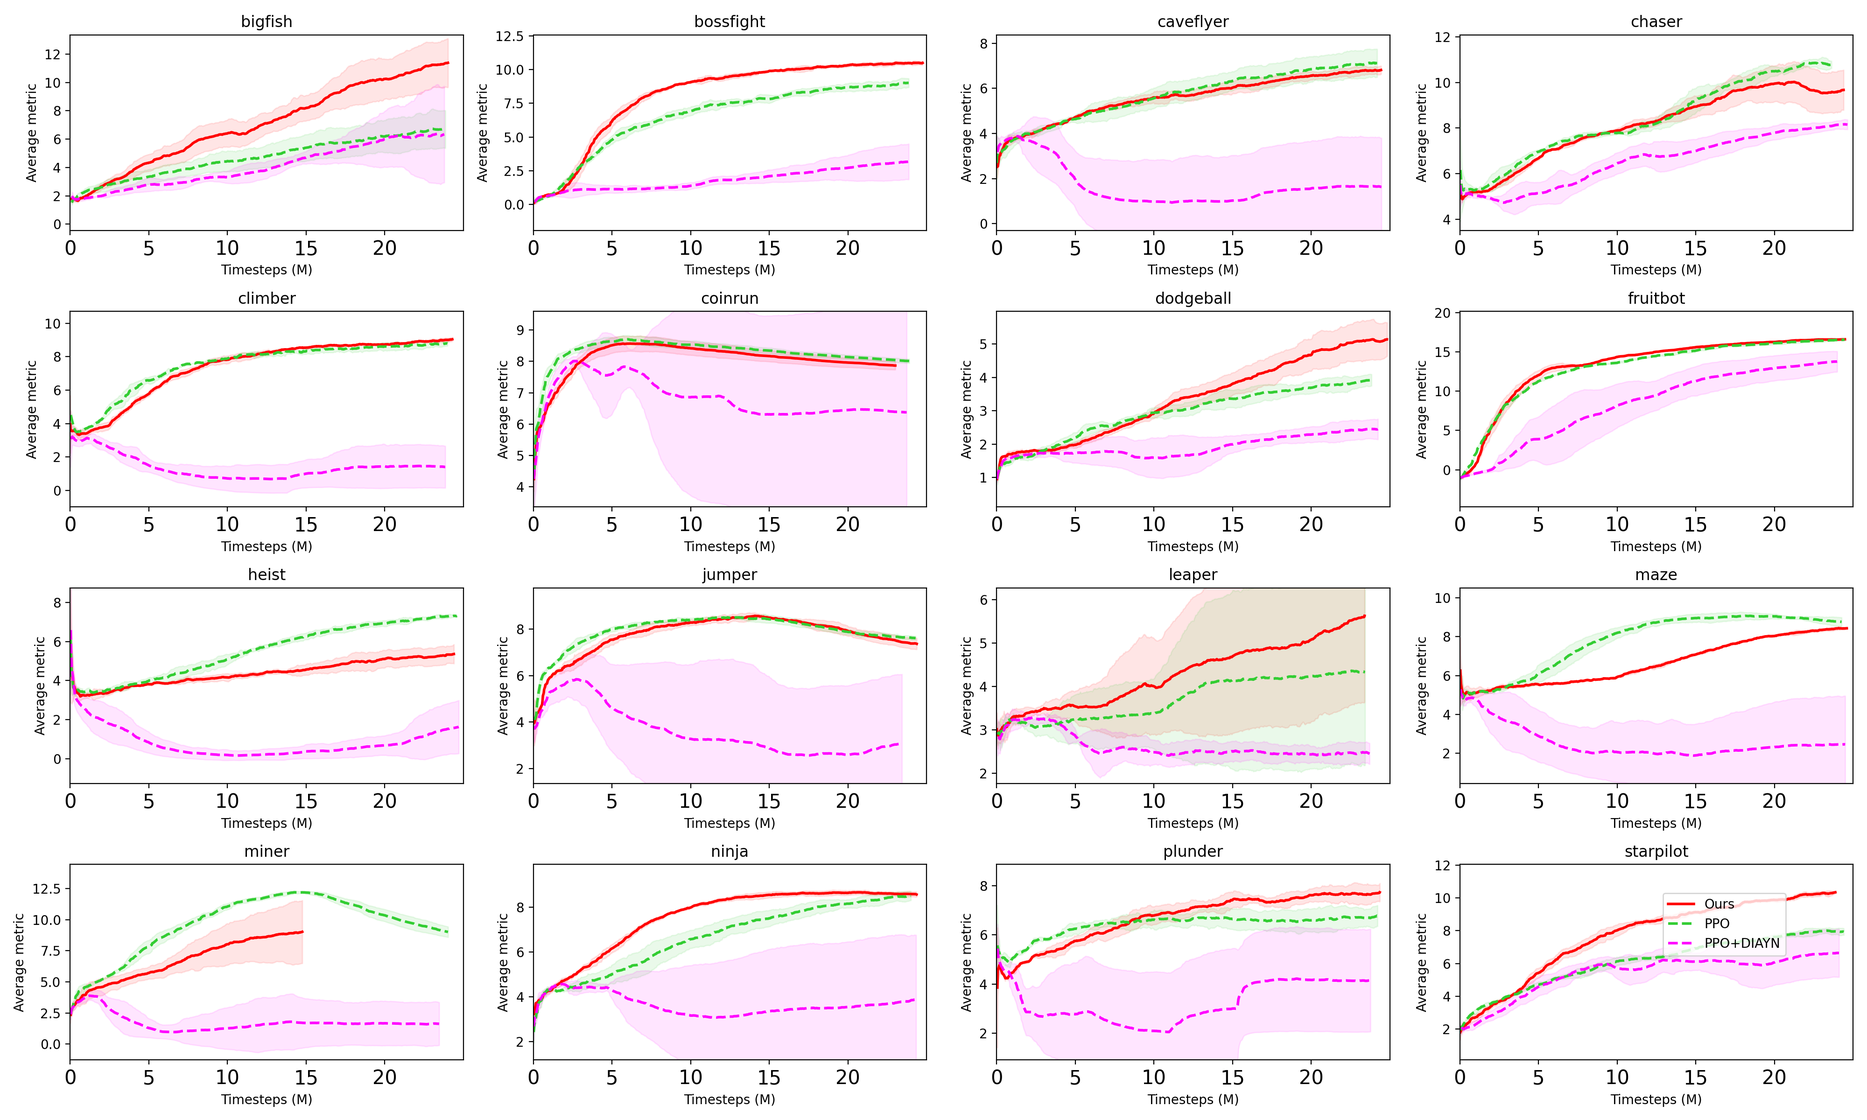
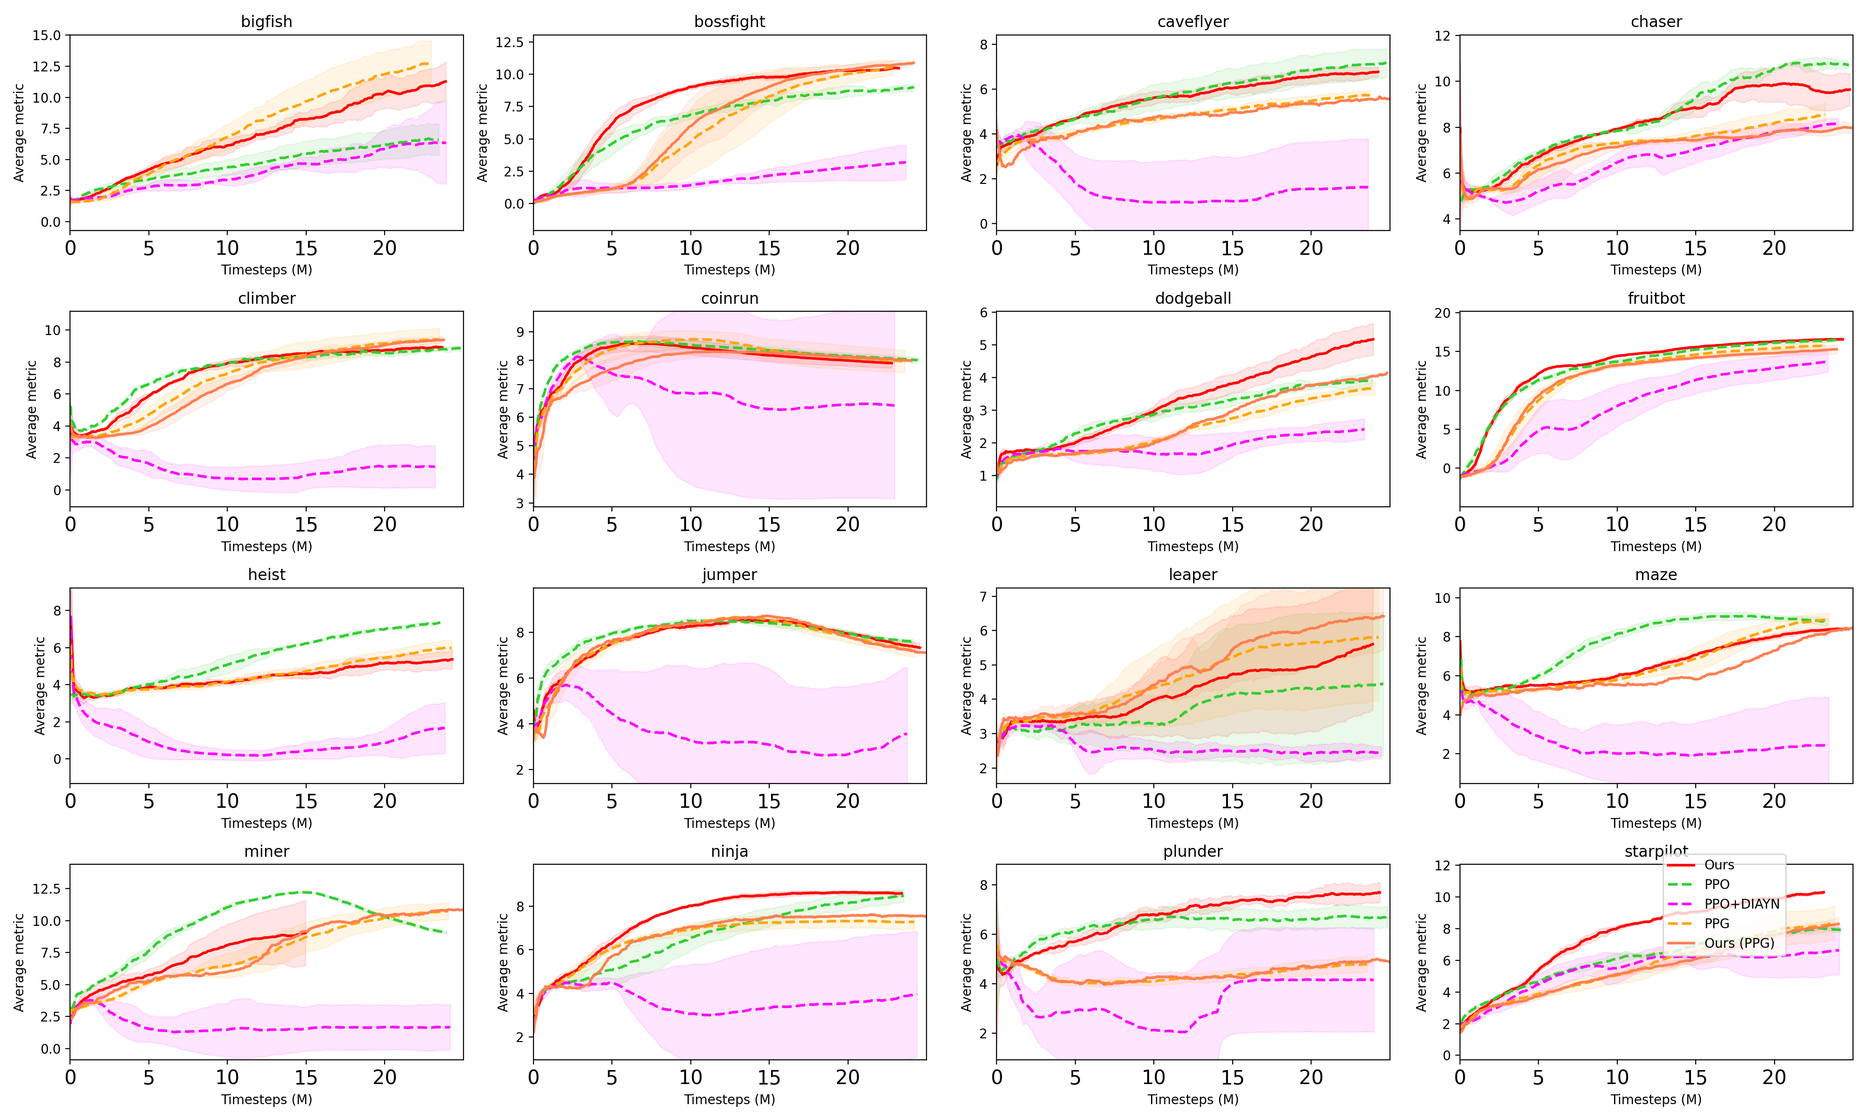
CCP working it seems

diff --git a/coinrun/coinrun/policies.py b/coinrun/coinrun/policies.py
@@ -204,7 +204,9 @@ class CnnPolicy(object):
             REP_PROC = tf.compat.v1.placeholder(dtype=tf.float32, shape=(None, Config.NUM_ENVS, 64, 64, 3), name='Rep_Proc')
             Z_INT = tf.compat.v1.placeholder(dtype=tf.int32, shape=(), name='Curr_Skill_idx')
             Z = tf.compat.v1.placeholder(dtype=tf.float32, shape=(nbatch, Config.N_SKILLS), name='Curr_skill')
-            self.protos = tf.compat.v1.Variable(initial_value=tf.random.normal(shape=(128, Config.N_SKILLS)), trainable=True, name='Prototypes')
+            CLUSTER_DIMS = 256
+            HIDDEN_DIMS_SSL = 256
+            self.protos = tf.compat.v1.Variable(initial_value=tf.random.normal(shape=(CLUSTER_DIMS, Config.N_SKILLS)), trainable=True, name='Prototypes')
             self.A = self.pdtype.sample_placeholder([None],name='A')
             # trajectories of length m, for N policy heads.
             self.STATE = tf.compat.v1.placeholder(tf.float32, [None,64,64,3])
@@ -214,16 +216,17 @@ class CnnPolicy(object):
             self.LAB_NCE = tf.compat.v1.placeholder(tf.float32, [Config.POLICY_NHEADS,None])
             self.A_i = self.pdtype.sample_placeholder([None,Config.REP_LOSS_M,1],name='A_i')
             self.R_cluster = tf.compat.v1.placeholder(tf.float32, [None, Config.NUM_ENVS])
-            self.A_cluster = self.pdtype.sample_placeholder([None, Config.NUM_ENVS])
+            self.A_cluster = self.pdtype.sample_placeholder([None, Config.NUM_ENVS], name='A_cluster')
             
         if Config.AGENT == 'ppo_goal':
+            X = tf.reshape(REP_PROC, [-1, 64, 64, 3])
             with tf.compat.v1.variable_scope("online", reuse=tf.compat.v1.AUTO_REUSE):
-                act_condit, act_invariant, slow_dropout_assign_ops, fast_dropout_assigned_ops = choose_cnn(processed_x)
+                act_condit, act_invariant, slow_dropout_assign_ops, fast_dropout_assigned_ops = choose_cnn(X)
                 self.train_dropout_assign_ops = fast_dropout_assigned_ops
                 self.run_dropout_assign_ops = slow_dropout_assign_ops
                 self.h =  tf.concat([act_condit, act_invariant], axis=1)
             with tf.compat.v1.variable_scope("target", reuse=tf.compat.v1.AUTO_REUSE):
-                act_condit, act_invariant, slow_dropout_assign_ops, fast_dropout_assigned_ops = choose_cnn(processed_x)
+                act_condit, act_invariant, slow_dropout_assign_ops, fast_dropout_assigned_ops = choose_cnn(X)
                 self.train_dropout_assign_ops = fast_dropout_assigned_ops
                 self.run_dropout_assign_ops = slow_dropout_assign_ops
                 self.h =  tf.concat([act_condit, act_invariant], axis=1)
@@ -345,13 +348,15 @@ class CnnPolicy(object):
                 self.h_codes =  tf.transpose(tf.reshape(tf.concat([act_condit, act_invariant], axis=1),[-1,Config.NUM_ENVS,256]),(1,0,2))
                 h_t = self.h_codes[:,:-1]
                 h_tp1 = self.h_codes[:,1:]
-                act_one_hot = tf.reshape(tf.one_hot(self.A_cluster,ac_space.n), (-1,ac_space.n))
+                
                 # h_a_t = tf.transpose(tf.reshape(get_predictor(n_in=ac_space.n,n_out=256,prefix="SH_a_emb")( act_one_hot), (-1,Config.NUM_ENVS,256)), (1,0,2))
                 h_seq = tf.reshape( tf.concat([h_t,h_tp1],2), (-1,256*2))
-                h_seq = tf.squeeze(tf.squeeze(FiLM(widths=[512,512], name='FiLM_layer')([tf.expand_dims(tf.expand_dims(h_seq,1),1), act_one_hot]),1),1)
-                self.z_t = get_online_predictor(n_in=256*2,n_out=128,prefix='SH_z_pred')(h_seq)
+                if not Config.CLUSTER_CONDIT_POLICY:
+                    act_one_hot = tf.reshape(tf.one_hot(self.A_cluster,ac_space.n), (-1,ac_space.n))
+                    h_seq = tf.squeeze(tf.squeeze(FiLM(widths=[512,512], name='FiLM_layer')([tf.expand_dims(tf.expand_dims(h_seq,1),1), act_one_hot]),1),1)
+                self.z_t = get_online_predictor(n_in=256*2,n_out=CLUSTER_DIMS,prefix='SH_z_pred')(h_seq)
                 
-                self.u_t = get_predictor(n_in=128,n_out=128,prefix='SH_u_pred')(self.z_t)
+                self.u_t = get_predictor(n_in=CLUSTER_DIMS,n_out=CLUSTER_DIMS,prefix='SH_u_pred')(self.z_t)
                 
             self.z_t_1 = self.z_t
             # scores: n_batch x n_clusters
@@ -374,32 +379,44 @@ class CnnPolicy(object):
                     self.cluster_returns = tf.stack(reward_scale)
                     # Predict the average cluster value from the prototype (centroid)
                     with tf.compat.v1.variable_scope("online", reuse=tf.compat.v1.AUTO_REUSE):
-                        self.cluster_value_mse_loss = tf.reduce_mean( (get_predictor(n_in=128,n_out=1)(tf.transpose(self.protos)) - self.cluster_returns)**2 )
+                        self.cluster_value_mse_loss = tf.reduce_mean( (get_predictor(n_in=CLUSTER_DIMS,n_out=1)(tf.transpose(self.protos)) - self.cluster_returns)**2 )
                 else:
                     self.cluster_value_mse_loss = 0.
 
                 """
                 MYOW where k-NN neighbors are replaced by Sinkhorn clusters
                 """
+                with tf.compat.v1.variable_scope("target", reuse=tf.compat.v1.AUTO_REUSE):
+                    # h_codes: n_batch x n_t x n_rkhs
+                    act_condit_target, act_invariant_target, _, _ = choose_cnn(obs_cluster)
+                    h_codes_target =  tf.transpose(tf.reshape(tf.concat([act_condit_target, act_invariant_target], axis=1),[-1,Config.NUM_ENVS,256]),(1,0,2))
+                    h_t_target = h_codes_target[:,:-1]
+                    h_tp1_target = h_codes_target[:,1:]
+                    
+                    # h_a_t = tf.transpose(tf.reshape(get_predictor(n_in=ac_space.n,n_out=256,prefix="SH_a_emb")( act_one_hot), (-1,Config.NUM_ENVS,256)), (1,0,2))
+                    h_seq_target = tf.reshape( tf.concat([h_t_target,h_tp1_target],2), (-1,256*2))
+                    if not Config.CLUSTER_CONDIT_POLICY:
+                        act_one_hot_target = tf.reshape(tf.one_hot(self.A_cluster,ac_space.n), (-1,ac_space.n))
+                        h_seq_target = tf.squeeze(tf.squeeze(FiLM(widths=[512,512], name='FiLM_layer')([tf.expand_dims(tf.expand_dims(h_seq_target,1),1), act_one_hot_target]),1),1)
                 y_online = h_seq
-                y_target = tf.stop_gradient(h_seq)
+                y_target = tf.stop_gradient(h_seq_target)
                 
 
                 # get K closest vectors by Sinkhorn scores
-                dist = _compute_distance(scores,scores)
+                dist = _compute_distance(y_online,y_online)
                 # dist = _compute_distance(y_online,y_online)
-                k_t = 1
+                k_t = 3
                 vals, indx = tf.nn.top_k(-dist, k_t+1,sorted=True)
                 
                 # N_target = y_target
                 with tf.compat.v1.variable_scope("online", reuse=tf.compat.v1.AUTO_REUSE):
-                    v_online_net = get_predictor(n_in=256*2,n_out=256,prefix='MYOW_v_pred')
-                    r_online_net = get_predictor(n_out=256,prefix='MYOW_r_pred')
+                    v_online_net = get_predictor(n_in=256*2,n_out=HIDDEN_DIMS_SSL,prefix='MYOW_v_pred')
+                    r_online_net = get_predictor(n_in=HIDDEN_DIMS_SSL,n_out=HIDDEN_DIMS_SSL,prefix='MYOW_r_pred')
                     v_online = v_online_net(y_online)
                     r_online = r_online_net(v_online)
                 with tf.compat.v1.variable_scope("target", reuse=tf.compat.v1.AUTO_REUSE):
-                    v_target_net = get_predictor(n_in=256*2,n_out=256,prefix='MYOW_v_pred')
-                    r_target_net = get_predictor(n_out=256,prefix='MYOW_r_pred')
+                    v_target_net = get_predictor(n_in=256*2,n_out=HIDDEN_DIMS_SSL,prefix='MYOW_v_pred')
+                    r_target_net = get_predictor(n_in=HIDDEN_DIMS_SSL,n_out=HIDDEN_DIMS_SSL,prefix='MYOW_r_pred')
 
                 self.myow_loss = 0.
                 for k in range(k_t):
@@ -411,7 +428,7 @@ class CnnPolicy(object):
                     self.myow_loss += ( tf.reduce_mean(cos_loss(r_online, v_target)) + tf.reduce_mean(cos_loss(r_target, v_online)) ) / k_t
 
                 with tf.compat.v1.variable_scope("online", reuse=tf.compat.v1.AUTO_REUSE):
-                    phi_s = get_online_predictor(n_in=256,n_out=128,prefix='SH_z_pred')(tf.reshape(h_tp1,(-1,256)))
+                    phi_s = get_online_predictor(n_in=256,n_out=CLUSTER_DIMS,prefix='SH_z_pred')(tf.reshape(h_tp1,(-1,256)))
                     self.myow_loss += tf.reduce_mean(cos_loss(phi_s, tf.transpose(tf.gather(self.protos,cluster_idx,axis=1),(1,0)) ))
 
                 self.myow_loss += self.cluster_value_mse_loss
@@ -423,6 +440,16 @@ class CnnPolicy(object):
                 self.R_I_SCALE = tf.nn.relu(get_linear_layer(n_in=256,n_out=1,prefix='r_i_scale',init=initializers.RandomNormal(stddev=0.11))(tf.reshape(tf.stop_gradient(h_tp1),(-1,256))))
 
                 # self.h = get_predictor(n_in=256+Config.N_SKILLS,n_out=256)(tf.concat([self.h,tf.stop_gradient(scores)],1))
+
+            """
+            Condition on soft-cluster assignments for policy head (Cluster Conditioned Policy )
+            """
+            if Config.CLUSTER_CONDIT_POLICY:
+                concat_code = tf.stop_gradient(tf.reshape(self.codes, [-1, Config.N_SKILLS]))
+                # print(self.h)
+                # print(concat_code)
+                #self.h = tf.concat([self.h, concat_code], axis=1)
+                #h_seq = tf.squeeze(tf.squeeze(FiLM(widths=[512,512], name='FiLM_layer')([tf.expand_dims(tf.expand_dims(h_seq,1),1), act_one_hot]),1),1)
                 
         if Config.AGENT == 'ppg':
             with tf.compat.v1.variable_scope("pi_branch", reuse=tf.compat.v1.AUTO_REUSE):
@@ -501,7 +528,7 @@ class CnnPolicy(object):
                 a, v, v_i, neglogp, r_i  = sess.run([a0_run[0], self.vf_run[0], self.vf_i_run, neglogp0_run[0], self.skill_log_prob], {X: ob, Z_INT: skill_idx, Z: one_hot_skill})
                 return a, v, v_i, r_i, self.initial_state, neglogp
             elif Config.AGENT == 'ppo_goal':
-                a, v, v_i, neglogp = sess.run([a0_run[0], self.vf_run[0], self.vf_i_run, neglogp0_run[0]], {X: ob, Z: one_hot_skill})
+                a, v, v_i, neglogp = sess.run([a0_run[0], self.vf_run[0], self.vf_i_run, neglogp0_run[0]], {REP_PROC: ob, Z: one_hot_skill})
                 return a, v, v_i, self.initial_state, neglogp
             elif Config.AGENT == 'ppo' and not Config.CUSTOM_REP_LOSS:
                 head_idx = 0
@@ -528,14 +555,19 @@ class CnnPolicy(object):
             return sess.run(self.h, {X: ob})
 
         def value(ob, update_frac, one_hot_skill=None, *_args, **_kwargs):
-            if Config.AGENT == 'ppo_diayn' or Config.AGENT == 'ppo_goal':
+            if Config.AGENT == 'ppo_diayn':
                 return sess.run(self.vf_run, {X: ob, Z: one_hot_skill})
+            elif Config.AGENT == 'ppo_goal':
+                return sess.run(self.vf_run, {REP_PROC: ob, Z: one_hot_skill})
             else:
-                return sess.run(self.vf_run, {X: ob})
+                 return sess.run(self.vf_run, {self.STATE: ob, X:ob})
+
 
         def value_i(ob, update_frac, one_hot_skill=None, *_args, **_kwargs):
-            if Config.AGENT == 'ppo_diayn' or Config.AGENT == 'ppo_goal':
+            if Config.AGENT == 'ppo_diayn':
                 return sess.run(self.vf_i_run, {X: ob, Z: one_hot_skill})
+            elif Config.AGENT == 'ppo_goal':
+                return sess.run(self.vf_i_run, {REP_PROC: ob, Z: one_hot_skill})
             else:
                  return sess.run(self.vf_i_run, {self.STATE: ob, X:ob})
 

diff --git a/coinrun/coinrun/make_wandb_table.py b/coinrun/coinrun/make_wandb_table.py
@@ -8,7 +8,13 @@ from collections import defaultdict
 os.environ["WANDB_API_KEY"] = "02e3820b69de1b1fcc645edcfc3dd5c5079839a1"
 os.environ["WANDB_API_KEY"] = "02e3820b69de1b1fcc645edcfc3dd5c5079839a1"
 import wandb
+import time
 api = wandb.Api()
+
+AGENTS = ["ppo_goal","ppo","ppo_diayn","ppg",'ppg_ssl']
+CLEAN_NAMES_AGENTS = ['Ours','PPO','PPO+DIAYN','PPG','Ours (PPG)']
+
+agent2label = dict(zip(AGENTS,CLEAN_NAMES_AGENTS))
 
 def set_curve_attributes(params):
         linewidth = 2
@@ -18,19 +24,20 @@ def set_curve_attributes(params):
         label = params['agent']['value']
         if label == 'ppo_goal':
             col = 'red'
-            label = 'Ours'
         elif label == 'ppo':
             col = 'limegreen'
             linestyle = '--'
-            label = 'PPO'
         elif label == 'ppo_diayn':
             col = 'fuchsia'
             linestyle = '--'
-            label = 'PPO+DIAYN'
         elif label == 'ppg':
             col = 'orange'
             linestyle = '--'
-            label = 'DAAC'
+        elif label == 'ppg_ssl':
+            col = 'coral'
+            linestyle = '-'
+        
+        label = agent2label[label]
         
         return label, col, linestyle, linewidth, marker, do_not_plot
 
@@ -38,12 +45,16 @@ runs = api.runs("ssl_rl/procgen_generalization")
 df = []
 for i,run in enumerate(runs): 
     params = json.loads(run.json_config)
-    if params['agent']['value'] not in ("ppo_goal","ppo","ppo_diayn"):
+    if params['agent']['value'] not in AGENTS:
+        continue
+    if params['agent']['value'] == 'ppo_goal' and params['run_id']['value'] != 'ppo_split_sinkhornMYOW':
         continue
     label, col, linestyle, linewidth, marker, do_not_plot = set_curve_attributes(params)
     run_df = run.history()
     columns = run_df.columns
     run_df.columns = [x.split('/')[-1] for x in columns]
+    # if params['agent']['value'] == 'ppo_goal':
+    #     import ipdb;ipdb.set_trace()
 
     run_df['agent'] = label
     run_df['env'] = params['environment']['value']
@@ -51,9 +62,32 @@ for i,run in enumerate(runs):
     run_df['linestyle'] = linestyle
     run_df['UID'] = np.random.randint(1000000)
     df.append(run_df)
+    time.sleep(0.5)
 df=pd.concat(df)
 
 xlim = (0,25e6,5e6)
+
+table_eval = r"""
+\begin{table}[ht]
+\centering
+\caption{Average eval returns collected after 25M of training frames, $\pm$ one standard deviation.}
+\resizebox{\linewidth}{!}{%
+\begin{tabular}{l||l|ll}
+\toprule
+"""
+table_train = r"""
+\begin{table}[ht]
+\centering
+\caption{Average train returns collected after 25M of training frames, $\pm$ one standard deviation.}
+\resizebox{\linewidth}{!}{%
+\begin{tabular}{l||l|ll}
+\toprule
+"""
+table_eval += "Env & " + ' & '.join(CLEAN_NAMES_AGENTS) +'\\\\ \n'
+reported_scores_eval = np.zeros((16,len(CLEAN_NAMES_AGENTS)))
+
+table_train += "Env & " + ' & '.join(CLEAN_NAMES_AGENTS) +'\\\\ \n'
+reported_scores_train = np.zeros((16,len(CLEAN_NAMES_AGENTS)))
 
 metrics = ['eprew','eprew_eval']
 for metric in metrics:
@@ -67,7 +101,11 @@ for metric in metrics:
     
     row_idx, col_idx = 0,0
     handles_, labels_ = [], []
-    for env_name in games_list:
+    for e_idx,env_name in enumerate(games_list):
+        if metric == 'eprew_eval':
+            row_str_eval = env_name + ' '
+        if metric == 'eprew':
+            row_str_train = env_name + ' '
         # idx = ((df['env']==env_name))
         # df_game = df[idx]
 
@@ -78,9 +116,11 @@ for metric in metrics:
             col_idx = 0
             row_idx += 1
         min_y, max_y = float('inf'), float('-inf')
-        for agent in sorted(df['agent'].unique()):
+        for a_idx,agent in enumerate(CLEAN_NAMES_AGENTS):
             idx2 = ( (df['agent']==agent).to_numpy() * (df['env']==env_name).to_numpy() )
             df_agent = df[idx2]
+            if len(df_agent) == 0:
+                continue
             T = df_agent.groupby('UID').apply(len).min()
             seeds = df_agent['UID'].unique()
             n_seeds = len(seeds)
@@ -102,6 +142,20 @@ for metric in metrics:
             ax.fill_between(x, mu-sigma, mu+sigma, alpha=0.1, color=col)
             max_y = max(max_y,(mu).max())
             min_y = min(min_y,(mu).min())
+
+            # find largest reward in curve in last 10 timesteps
+            start_idx = len(mu)-10
+            best_idx = mu[start_idx:].argmax()+start_idx
+
+            if metric == 'eprew_eval':
+                row_str_eval += '& %.1f$\pm$%.1f ' % (mu[best_idx],sigma[best_idx])
+            if metric == 'eprew':
+                row_str_train += '& %.1f$\pm$%.1f ' % (mu[best_idx],sigma[best_idx])
+            # add best score to table of scores for normalized absolute score computation
+            if metric == 'eprew_eval':
+                reported_scores_eval[e_idx,a_idx] = mu[best_idx]
+            if metric == 'eprew':
+                reported_scores_train[e_idx,a_idx] = mu[best_idx]
 
         major_ticks = np.arange(xlim[0], xlim[1], xlim[2])
         #minor_ticks = np.arange(xlim[0], xlim[1], xlim[3])
@@ -126,7 +180,42 @@ for metric in metrics:
 
         handles, labels = ax.get_legend_handles_labels()
 
+        if metric == 'eprew_eval':
+            row_str_eval += '\\\\ \n'
+            table_eval += row_str_eval
+        if metric == 'eprew':
+            row_str_train += '\\\\ \n'
+            table_train += row_str_train
+
+
     plt.tight_layout()
     plt.legend(handles,labels, loc='lower left', bbox_to_anchor=(0.5,0.5)) # new_handles, new_labels,
     
     plt.savefig(os.path.join('wandb_plots',metric+'.png'),dpi=200)
+
+normed_scores_eval = (reported_scores_eval/np.tile(reported_scores_eval[:,1].reshape(16,1),(1,len(CLEAN_NAMES_AGENTS)))) # standardized by PPO
+normed_scores_eval[normed_scores_eval == 0] = np.nan
+normed_scores_eval = np.nanmean(normed_scores_eval,0)
+table_eval += '\\midrule \n'
+table_eval += 'Norm.score & ' + ' & '.join(normed_scores_eval.round(3).astype(str)) + r'\\ \bottomrule'
+table_eval += r"""
+\end{tabular}%
+}
+\label{tab:procgen}
+\end{table}%
+"""
+
+normed_scores_train = (reported_scores_train/np.tile(reported_scores_train[:,1].reshape(16,1),(1,len(CLEAN_NAMES_AGENTS) ) )) # standardized by PPO
+normed_scores_train[normed_scores_train == 0] = np.nan
+normed_scores_train = np.nanmean(normed_scores_train,0)
+table_train += '\\midrule \n'
+table_train += 'Norm.score & ' + ' & '.join(normed_scores_train.round(3).astype(str)) + r'\\ \bottomrule'
+table_train += r"""
+\end{tabular}%
+}
+\label{tab:procgen}
+\end{table}%
+"""
+print(table_eval)
+print(table_train)
+import ipdb;ipdb.set_trace()

diff --git a/coinrun/coinrun/ppo2_goal.py b/coinrun/coinrun/ppo2_goal.py
@@ -550,7 +550,8 @@ class Runner(AbstractEnvRunner):
 		for _ in range(self.nsteps):
 			# Given observations, get action value and neglopacs
 			# We already have self.obs because Runner superclass run self.obs[:] = env.reset() on init
-			actions, values, values_i, self.states, neglogpacs = self.model.step(self.obs,  update_frac, skill_idx=z, one_hot_skill=one_hot_skill)
+			obs_exp = np.expand_dims(self.obs, 0)
+			actions, values, values_i, self.states, neglogpacs = self.model.step(obs_exp,  update_frac, skill_idx=z, one_hot_skill=one_hot_skill)
 			mb_obs.append(self.obs.copy())
 			mb_actions.append(actions)
 			mb_values.append(values)
@@ -563,7 +564,8 @@ class Runner(AbstractEnvRunner):
 			# Infos contains a ton of useful informations
 			self.obs[:], rewards, self.dones, self.infos = self.env.step(actions)
 			# eval for zero shot generalization
-			eval_actions, eval_values, _, eval_states, eval_neglogpacs = self.model.step(self.eval_obs, update_frac, skill_idx=z, one_hot_skill=one_hot_skill)
+			eval_obs_exp = np.expand_dims(self.eval_obs, 0)
+			eval_actions, eval_values, _, eval_states, eval_neglogpacs = self.model.step(eval_obs_exp, update_frac, skill_idx=z, one_hot_skill=one_hot_skill)
 			self.eval_obs[:], eval_rewards, self.eval_dones, self.eval_infos = self.eval_env.step(eval_actions)
 			for info in self.infos:
 				maybeepinfo = info.get('episode')
@@ -587,8 +589,8 @@ class Runner(AbstractEnvRunner):
 		mb_neglogpacs = np.asarray(mb_neglogpacs, dtype=np.float32)
 		mb_infos = np.asarray(mb_infos, dtype=np.float32)
 		mb_dones = np.asarray(mb_dones, dtype=np.bool)	
-		last_values = self.model.value(self.obs, update_frac, one_hot_skill=one_hot_skill)[0]
-		last_values_i = self.model.value_i(self.obs, update_frac, one_hot_skill=one_hot_skill)
+		last_values = self.model.value(obs_exp, update_frac, one_hot_skill=one_hot_skill)[0]
+		last_values_i = self.model.value_i(obs_exp, update_frac, one_hot_skill=one_hot_skill)
 		# compute codes
 		
 		if intrinsic and Config.HARD_CODES:
@@ -781,9 +783,9 @@ def learn(*, policy, env, eval_env, nsteps, total_timesteps, ent_coef, lr,
 			# sample new skill/code for current episodes
 			if BOLZTMANN_PROTO_SKILL_SELECTION:
 				print('Empirical cluster return estimates:')
-				print(cluster_returns)
-				# curr_z = np.random.choice([i for i in range(Config.N_SKILLS)],size=1,replace=False,p=np.exp(cluster_returns)/np.sum(np.exp(cluster_returns))).item()
-				curr_z = cluster_returns.argmax()
+				#
+				curr_z = np.random.choice([i for i in range(Config.N_SKILLS)],size=1,replace=False,p=np.exp(cluster_returns)/np.sum(np.exp(cluster_returns))).item()
+				# curr_z = cluster_returns.argmax()
 			else:
 				curr_z = np.random.randint(0, high=Config.N_SKILLS)
 			z_iter = 0

diff --git a/coinrun/coinrun/config.py b/coinrun/coinrun/config.py
@@ -55,6 +55,9 @@ class ConfigSingle(object):
         # For computing intrinsic reward
         bool_keys.append(('itr', 'intrinsic'))
 
+        # For enabling a cluster conditioned Policy
+        bool_keys.append(('ccp', 'cluster_condit_policy'))
+
         # Decay for weight on intrinsic reward. Default values anneals to 1e-4 at the end of 25M steps
         type_keys.append(('itr_decay', 'intrinsic_reward_decay', float, 0.997))
 
